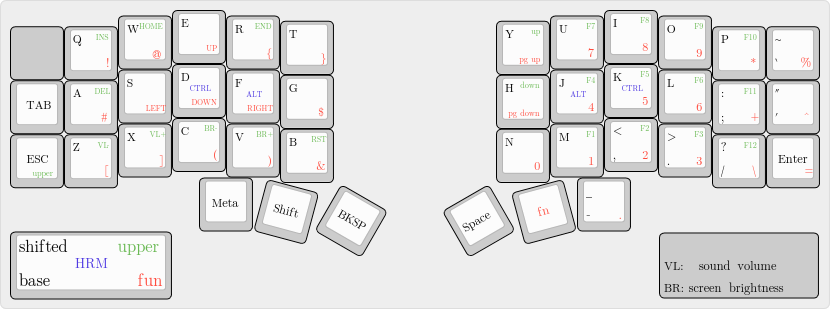
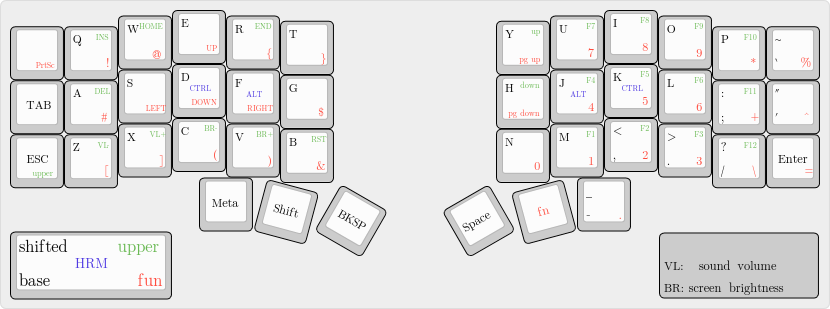
Add print screen back

Changed region(s): [[0.0, 0.0874, 0.0904, 0.233]]

diff --git a/keymap.c b/keymap.c
@@ -46,7 +46,7 @@ const uint16_t PROGMEM keymaps[][MATRIX_ROWS][MATRIX_COLS] = {
   ),
   [_FL] = LAYOUT_moonlander(
     _______,        _______,        _______,        _______,        _______,        _______,        _______,                 _______, _______, _______, _______, _______, _______, _______,
-    KC_INSERT,      KC_EXLM,        KC_AT,          KC_UP,          KC_LCBR,        KC_RCBR,        _______,                 _______, KC_PGUP,        KC_7,           KC_8,           KC_9,           KC_ASTR,           KC_PERC,
+    KC_PSCR,        KC_EXLM,        KC_AT,          KC_UP,          KC_LCBR,        KC_RCBR,        _______,                 _______, KC_PGUP,        KC_7,           KC_8,           KC_9,           KC_ASTR,           KC_PERC,
     KC_NO,          KC_HASH,        KC_LEFT,        KC_DOWN,        KC_RIGHT,       KC_DLR,         _______,                 _______, KC_PGDN,        KC_4,           KC_5,           KC_6,           KC_KP_PLUS,        KC_CIRC,
     TT(2),          KC_LBRC,        KC_RBRC,        KC_LPRN,        KC_RPRN,        KC_AMPR,                                             KC_0,        KC_1,           KC_2,           KC_3,           KC_BACKSLASH,      KC_EQUAL,
     _______,        _______,        _______,        _______,        _______,        _______,                                          _______,        _______,        KC_DOT,         _______,        _______,           _______,
@@ -77,20 +77,6 @@ const uint16_t PROGMEM keymaps[][MATRIX_ROWS][MATRIX_COLS] = {
     _______, _______, _______,                 _______, _______, _______
   ),
 };
-
-const uint16_t PROGMEM combo0[] = { KC_F, KC_S, COMBO_END};
-const uint16_t PROGMEM combo1[] = { KC_F, KC_D, COMBO_END};
-const uint16_t PROGMEM combo2[] = { KC_J, KC_L, COMBO_END};
-const uint16_t PROGMEM combo3[] = { KC_J, KC_K, COMBO_END};
-
-combo_t key_combos[COMBO_COUNT] = {
-    COMBO(combo0, KC_LEFT_ALT),
-    COMBO(combo1, KC_LEFT_CTRL),
-    COMBO(combo2, KC_RIGHT_ALT),
-    COMBO(combo3, KC_RIGHT_CTRL),
-};
-
-
 
 bool process_record_user(uint16_t keycode, keyrecord_t *record) {
   if (!process_achordion(keycode, record)) { return false; }

diff --git a/config.h b/config.h
@@ -11,8 +11,11 @@
 #undef MOUSEKEY_TIME_TO_MAX
 #define MOUSEKEY_TIME_TO_MAX 30
 
+// reduce firmware size by limitting the number of layer to 8
 #define LAYER_STATE_8BIT
-#define COMBO_COUNT 4
+
+// disable sound
+#define NO_MUSIC_MODE
 
 #define TAPPING_TERM 200
 #define PERMISSIVE_HOLD
